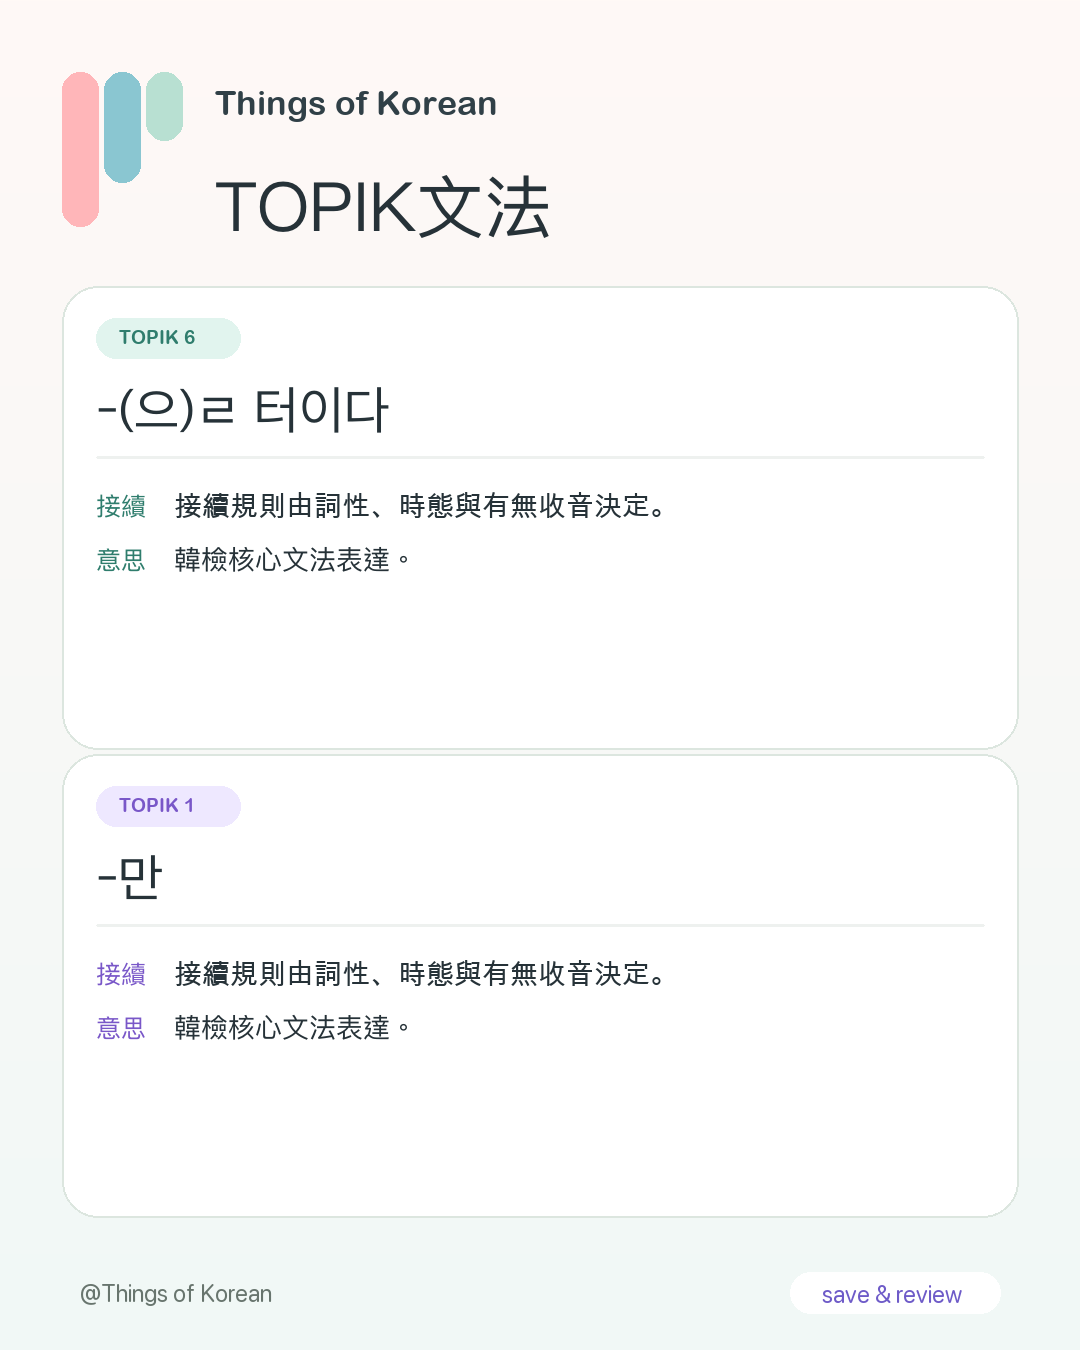
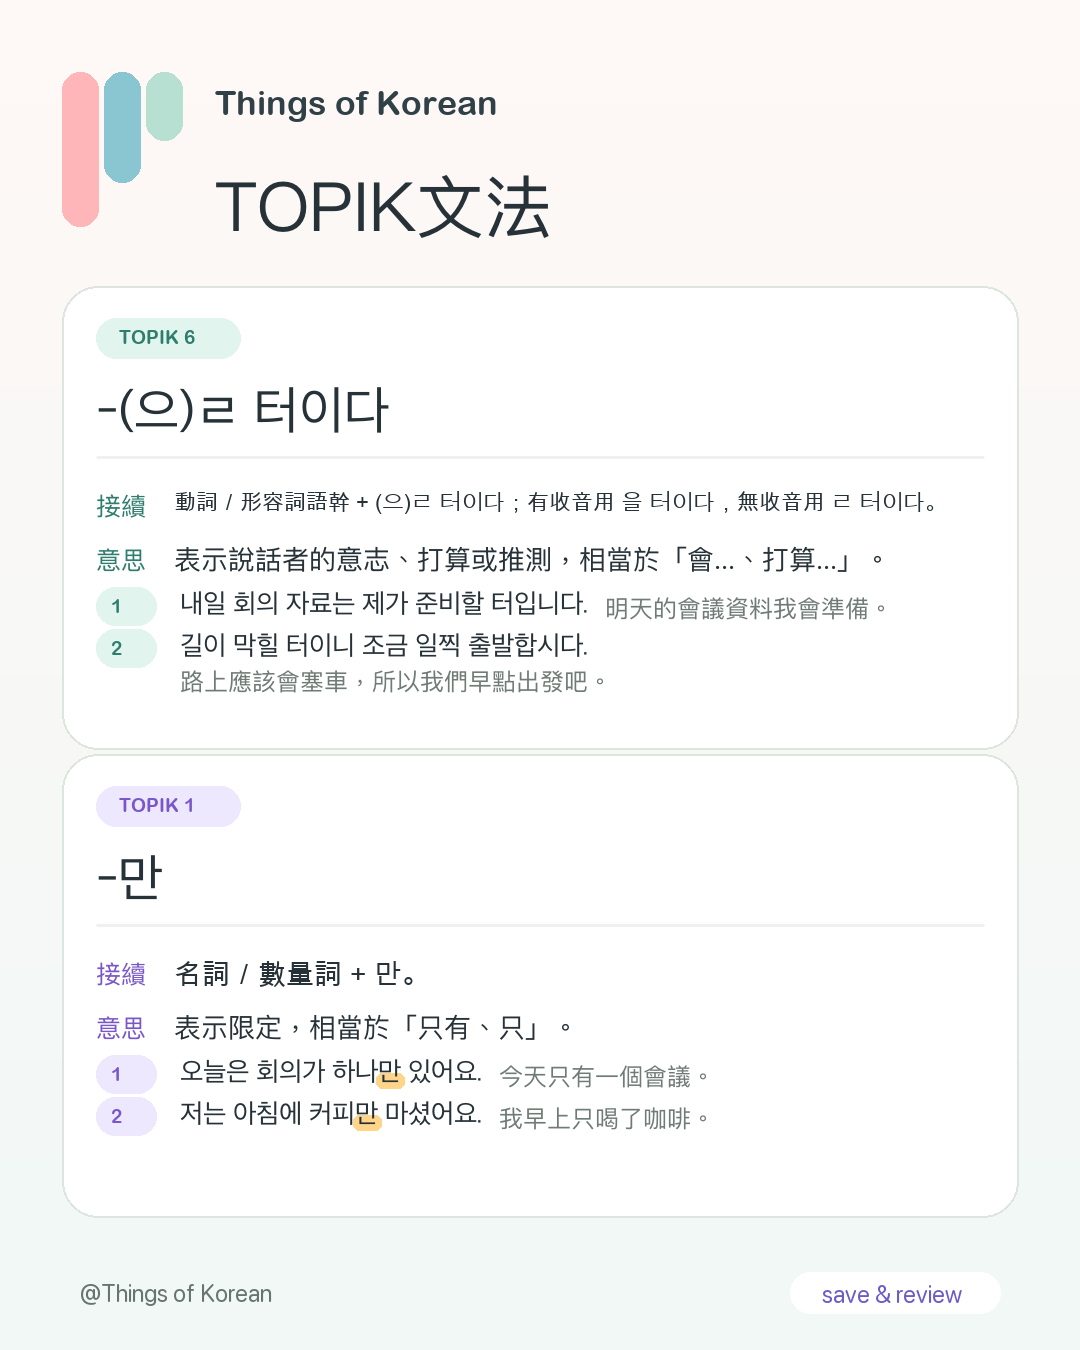
Require complete TOPIK grammar examples

Changed region(s): [[0.0917, 0.3422, 0.825, 0.5289], [0.1528, 0.7156, 0.6417, 0.84], [0.7028, 0.3422, 0.7639, 0.3733]]

diff --git a/src/content.js b/src/content.js
@@ -238,6 +238,15 @@ const grammarBank = [
     ]
   },
   {
+    pattern: "-(으)ㄹ 터이다",
+    attachment: "動詞／形容詞語幹 + (으)ㄹ 터이다；有收音用 을 터이다，無收音用 ㄹ 터이다。",
+    meaning: "表示說話者的意志、打算或推測，相當於「會...、打算...」。",
+    examples: [
+      ["내일 회의 자료는 제가 준비할 터입니다.", "明天的會議資料我會準備。"],
+      ["길이 막힐 터이니 조금 일찍 출발합시다.", "路上應該會塞車，所以我們早點出發吧。"]
+    ]
+  },
+  {
     pattern: "-(으)ㄹ 따름이다",
     attachment: "動詞／形容詞語幹 + (으)ㄹ 따름이다；有收音用 을 따름이다，無收音用 ㄹ 따름이다。",
     meaning: "表示只有某種想法、狀態或行為，相當於「只是...而已」。",
@@ -262,6 +271,15 @@ const grammarBank = [
     examples: [
       ["저도 한국어를 공부해요.", "我也學韓文。"],
       ["오늘은 커피도 마시고 차도 마셨어요.", "今天咖啡也喝了，茶也喝了。"]
+    ]
+  },
+  {
+    pattern: "-만",
+    attachment: "名詞／數量詞 + 만。",
+    meaning: "表示限定，相當於「只有、只」。",
+    examples: [
+      ["오늘은 회의가 하나만 있어요.", "今天只有一個會議。"],
+      ["저는 아침에 커피만 마셨어요.", "我早上只喝了咖啡。"]
     ]
   },
   {
@@ -684,15 +702,23 @@ export function koreanVocabMessages(rows = koreanVocabRows()) {
 }
 
 export function koreanGrammarRows() {
-  const fallback = new Map(grammarBank.map((item) => [item.pattern, item]));
-  return pickByDateAcrossLevels(topikGrammar, 2, "level", 1).map((item) => {
-    const fixed = fallback.get(item.pattern);
+  const levelByPattern = new Map(topikGrammar.map((item) => [item.pattern, item.level]));
+  const completeGrammar = grammarBank
+    .map((item) => ({ ...item, level: levelByPattern.get(item.pattern) || item.level }))
+    .filter((item) =>
+      item.level &&
+      item.attachment &&
+      item.meaning &&
+      Array.isArray(item.examples) &&
+      item.examples.length >= 2
+    );
+  return pickByDateAcrossLevels(completeGrammar, 2, "level", 1).map((item) => {
     return {
       level: item.level,
       pattern: item.pattern,
-      attachment: fixed?.attachment || "接續規則由詞性、時態與有無收音決定。",
-      meaning: fixed?.meaning || "韓檢核心文法表達。",
-      examples: fixed?.examples || []
+      attachment: item.attachment,
+      meaning: item.meaning,
+      examples: item.examples
     };
   });
 }
